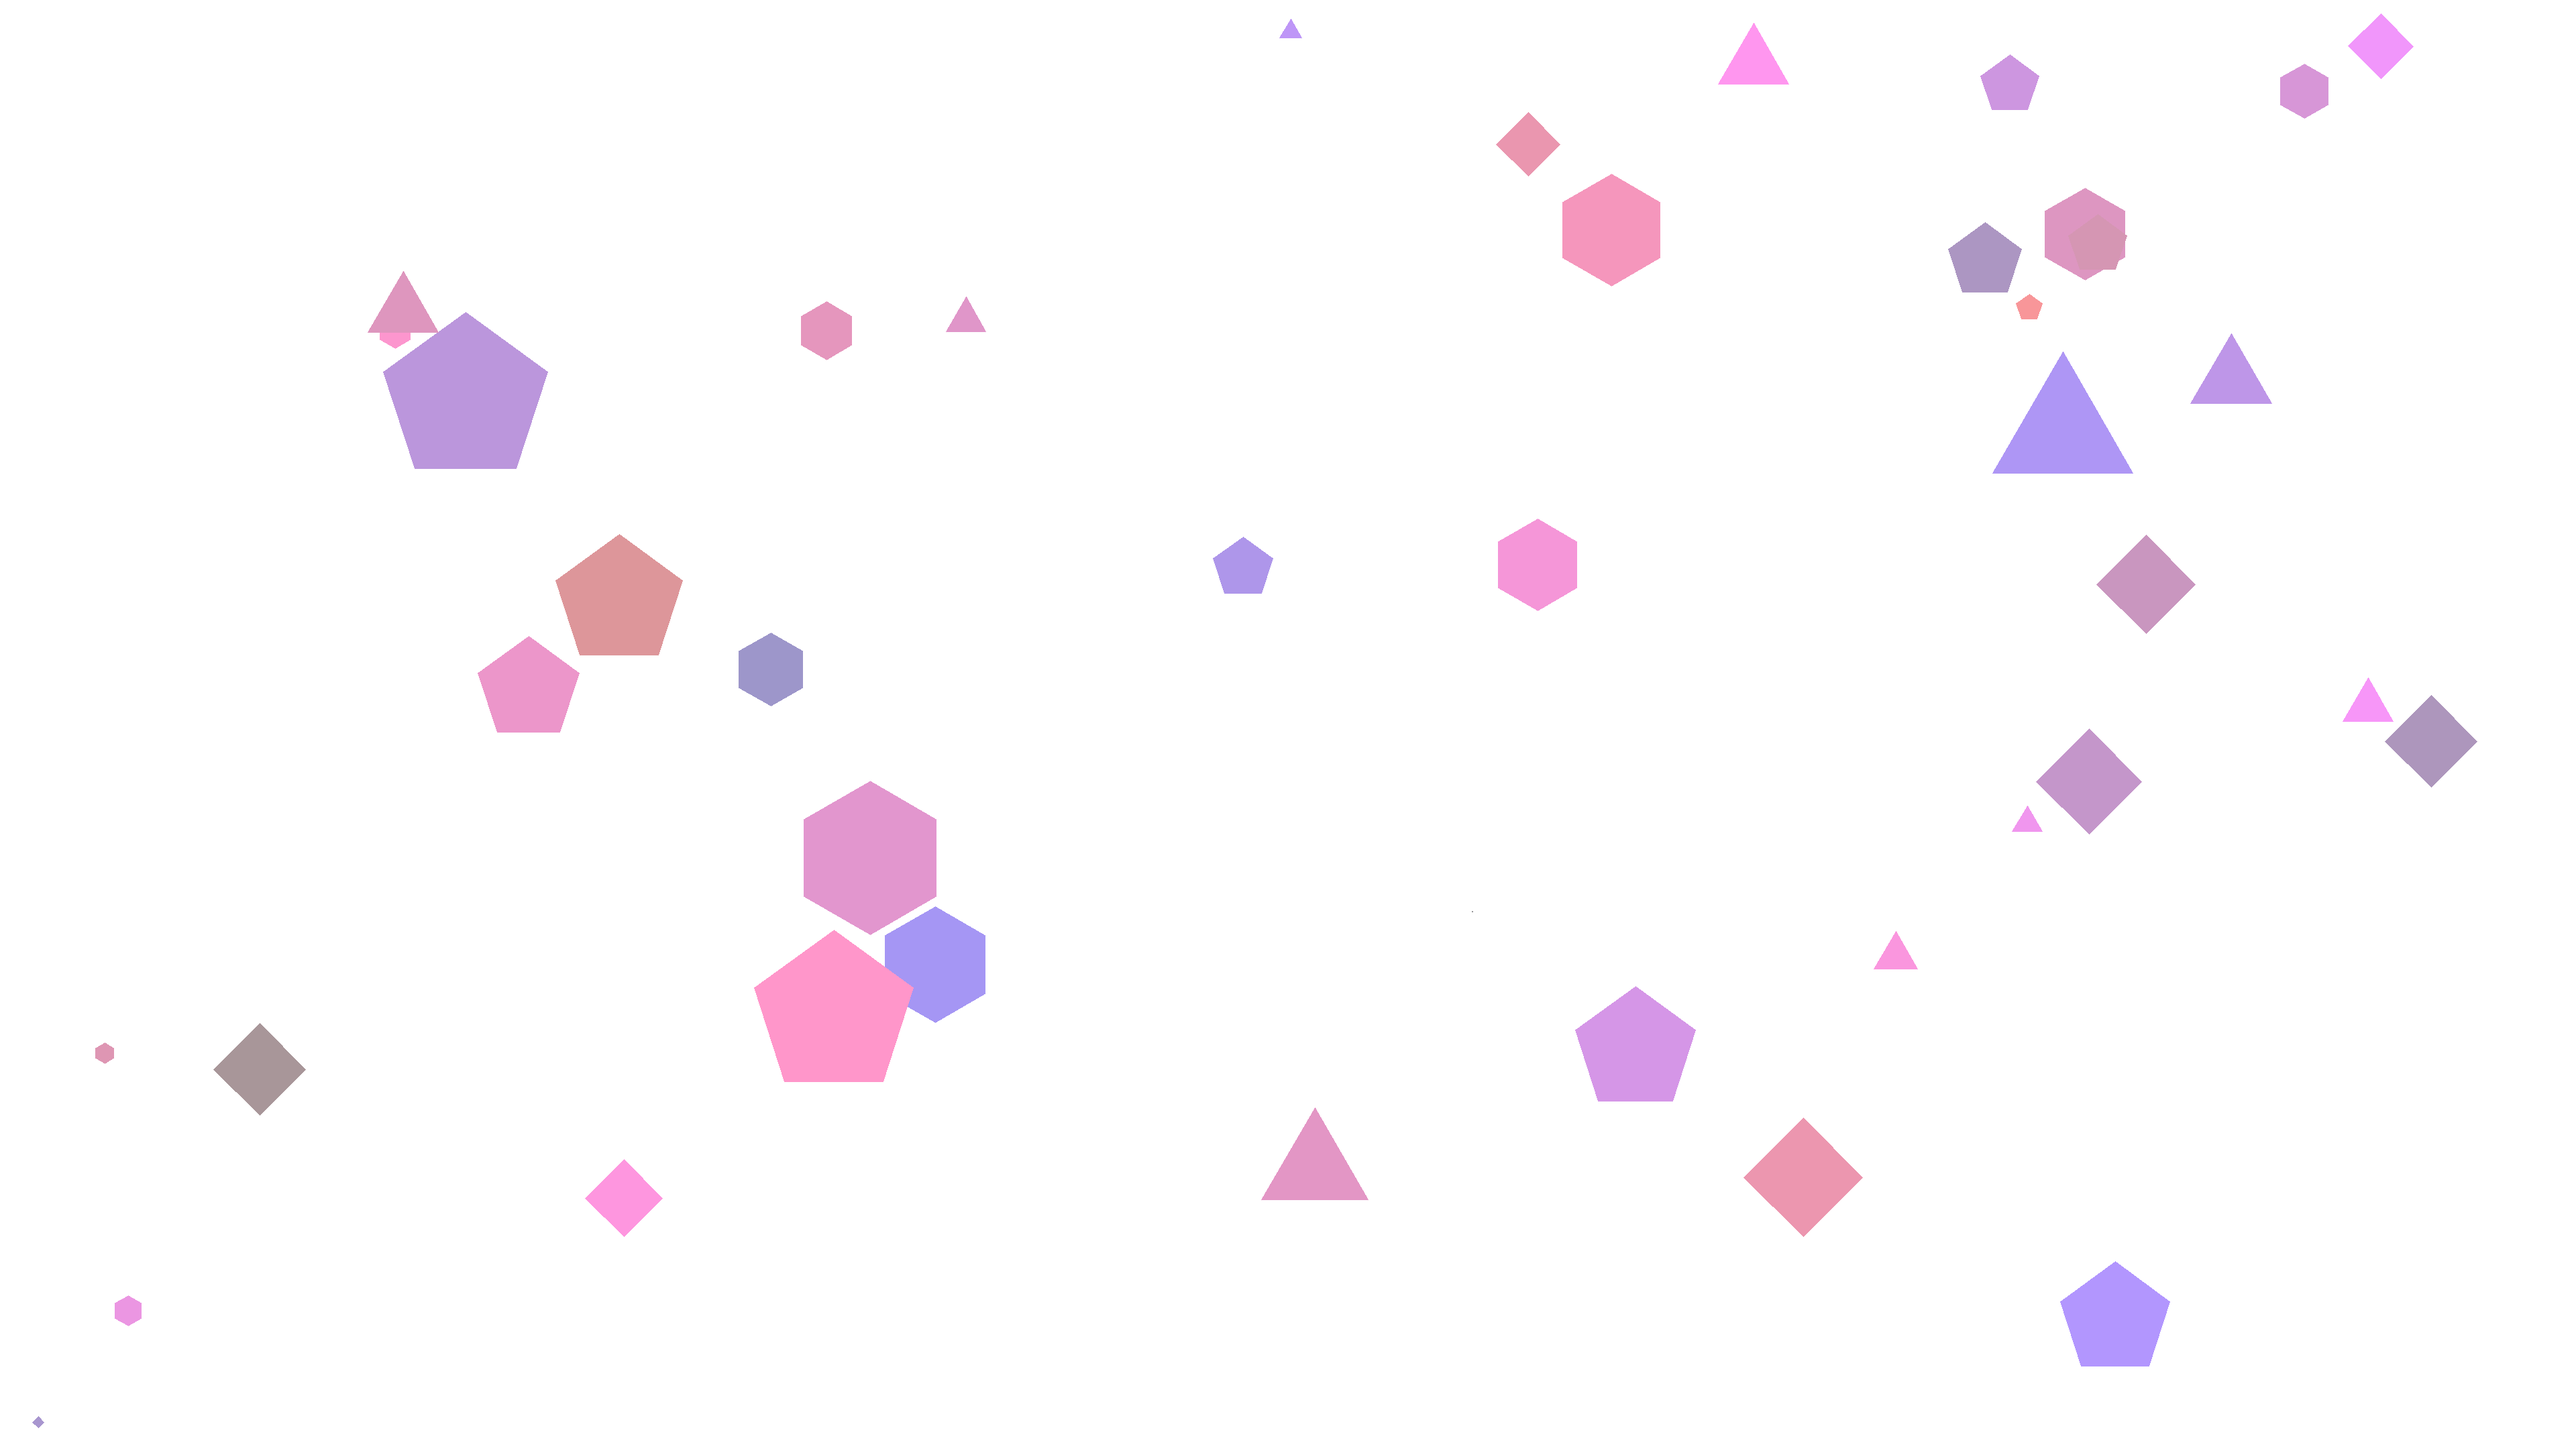
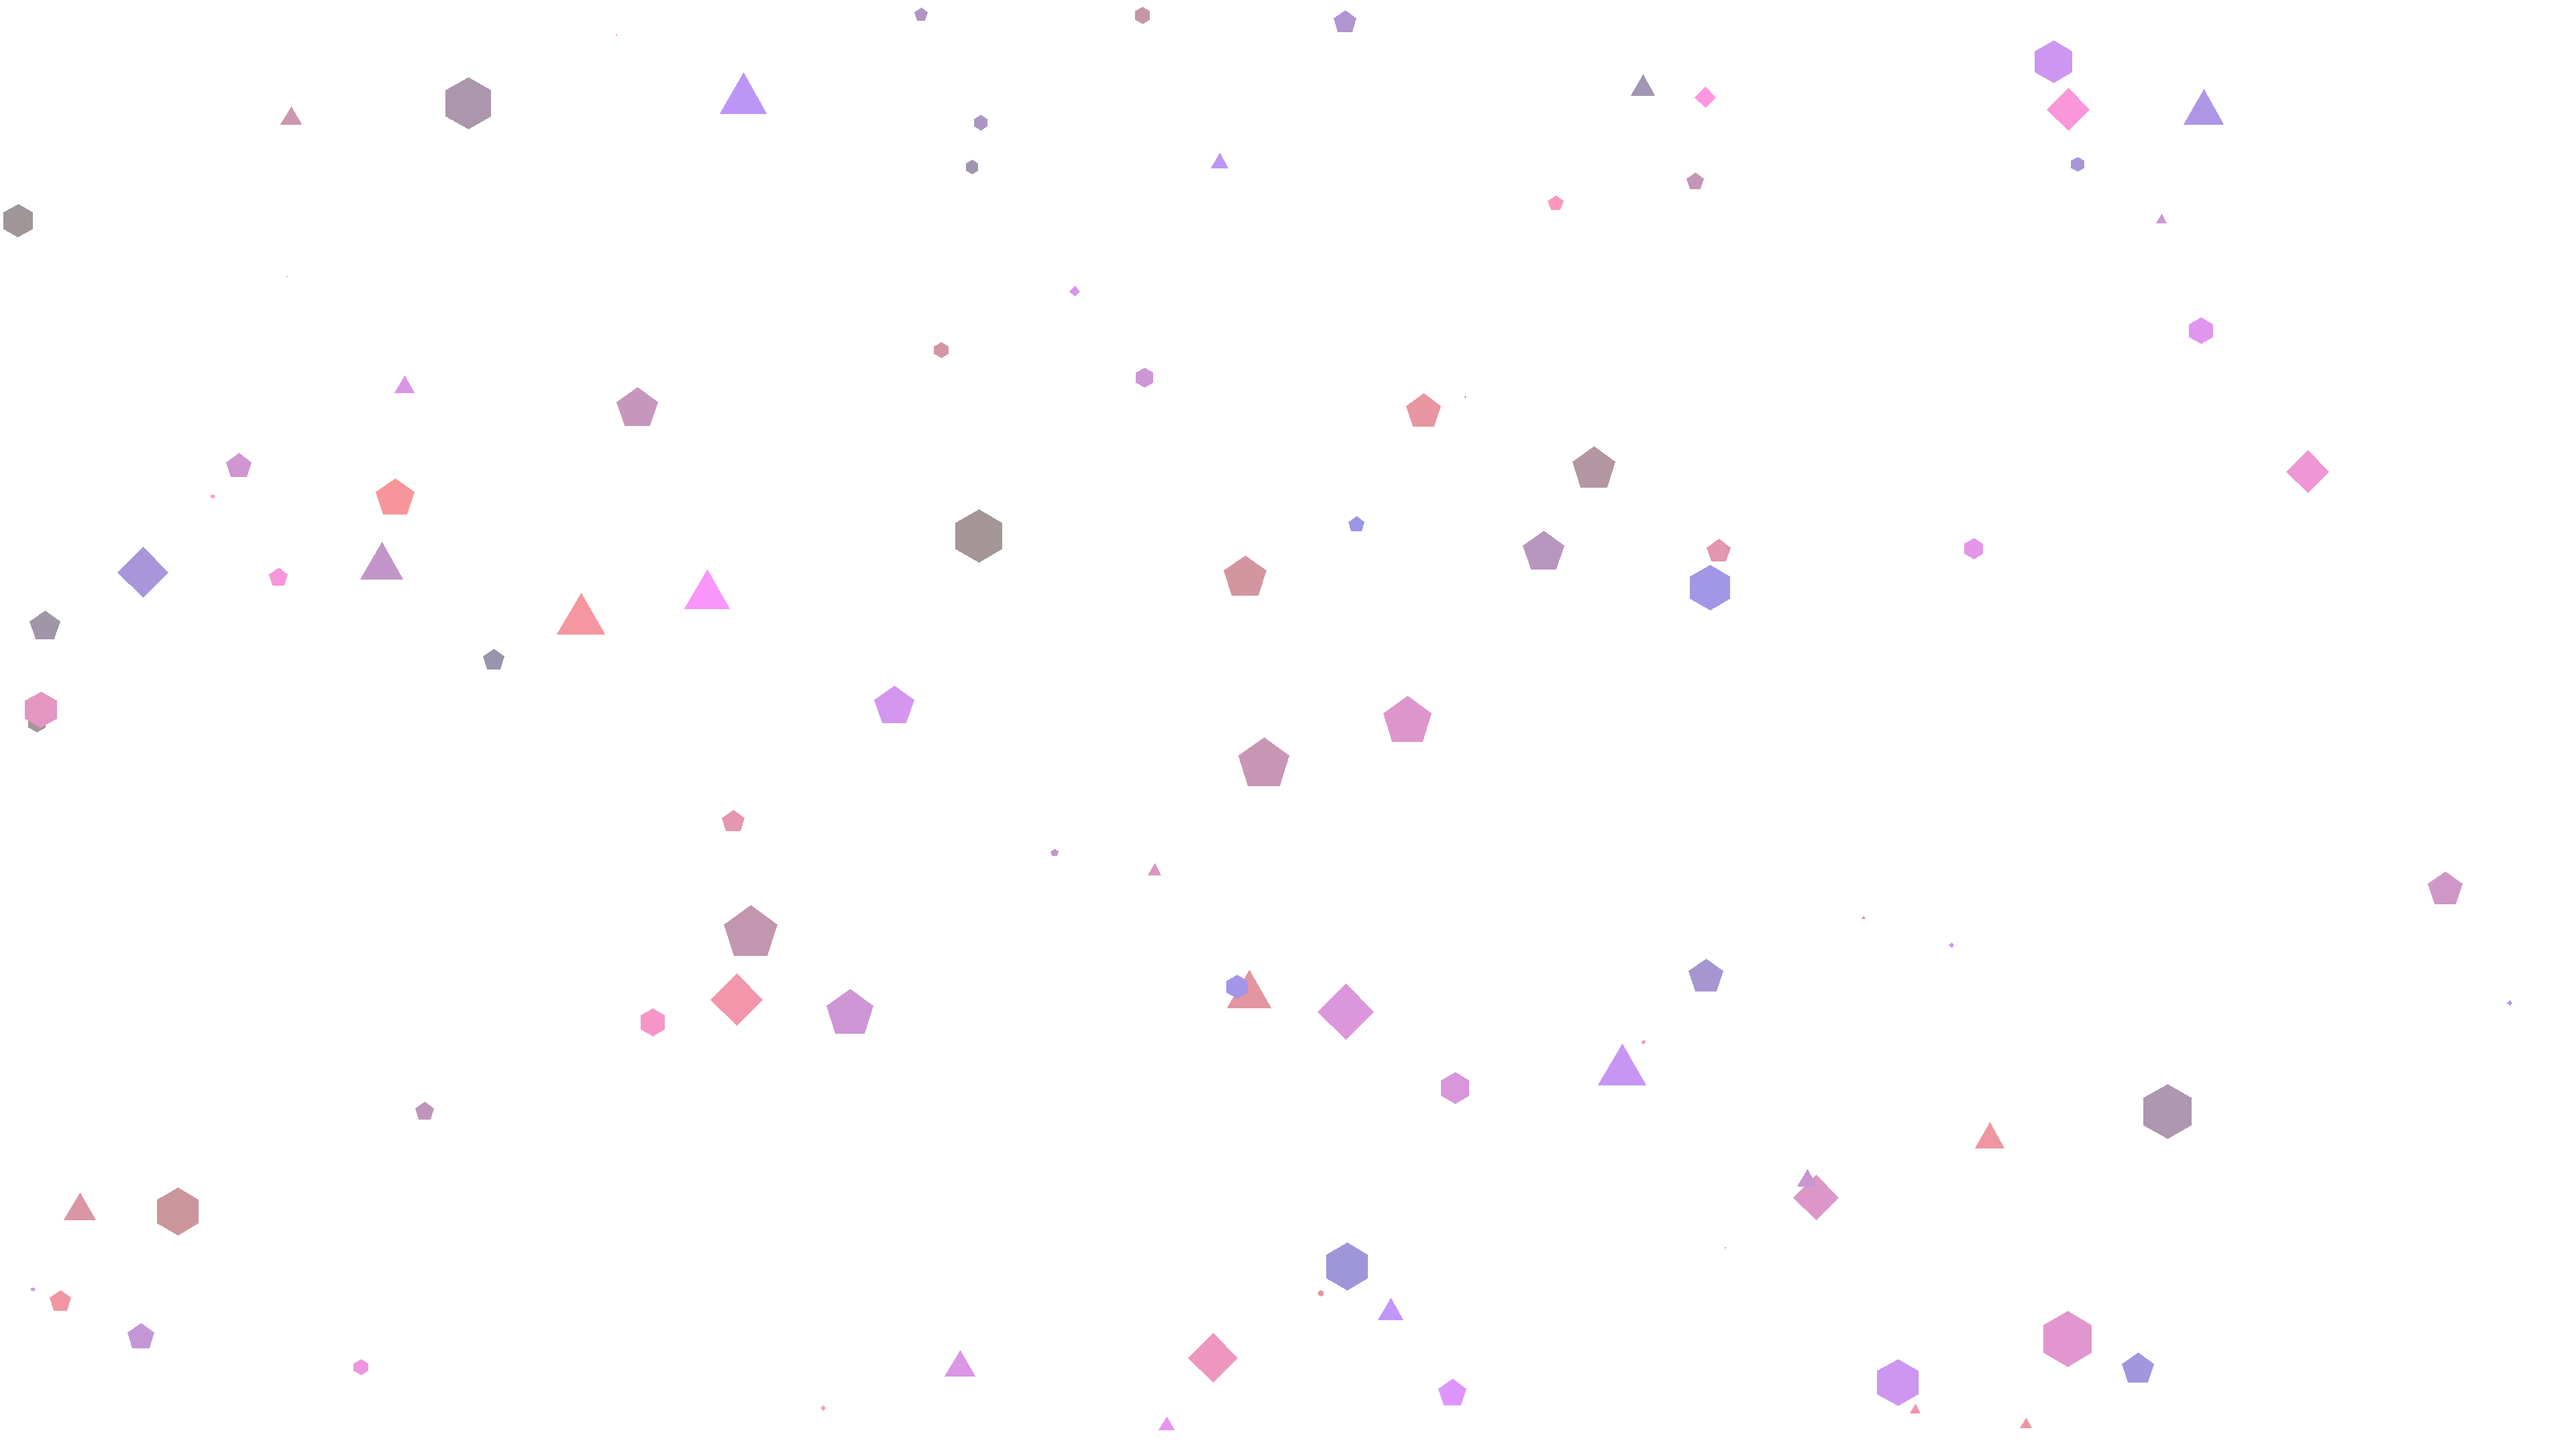
more shapes

diff --git a/assets/images/generaterandomshapes.py b/assets/images/generaterandomshapes.py
@@ -2,8 +2,8 @@ from PIL import Image,ImageDraw
 import math
 import random
 size = (1920*2,1080*2)
-scale = 3
-shapes = 50
+scale = 1
+shapes = 100
 pointrange = (3,6)
 rotationrange = (180,180)
 im = Image.new('RGBA', size)
